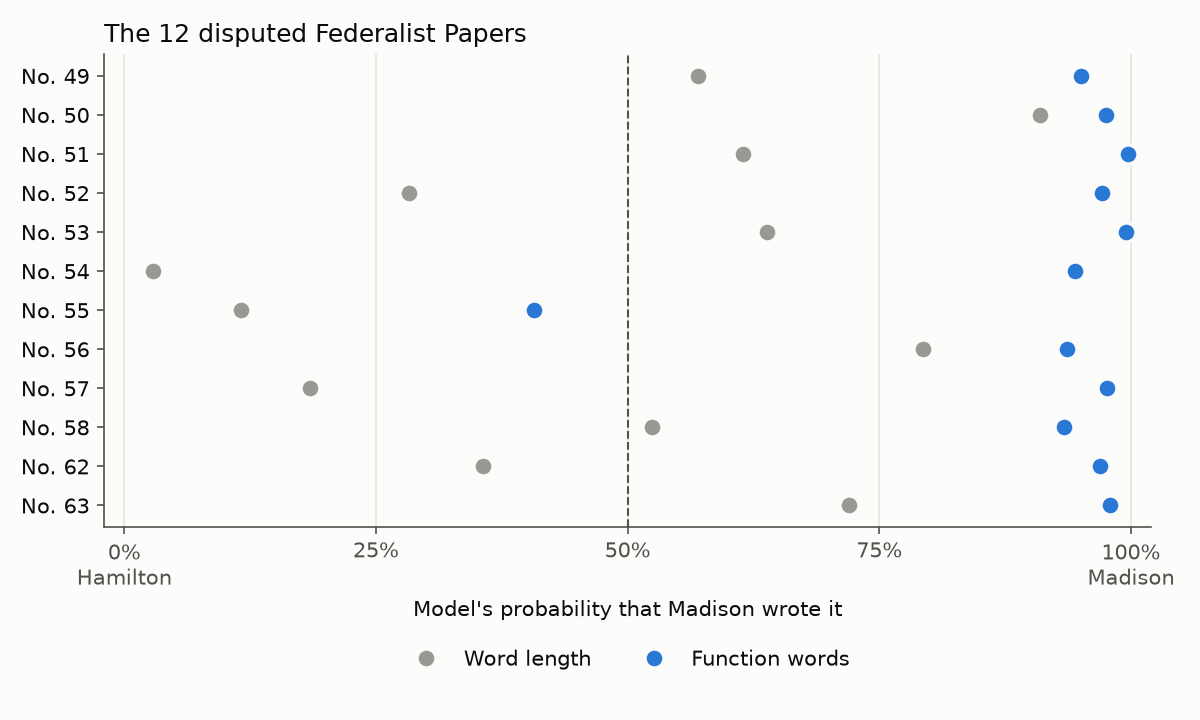
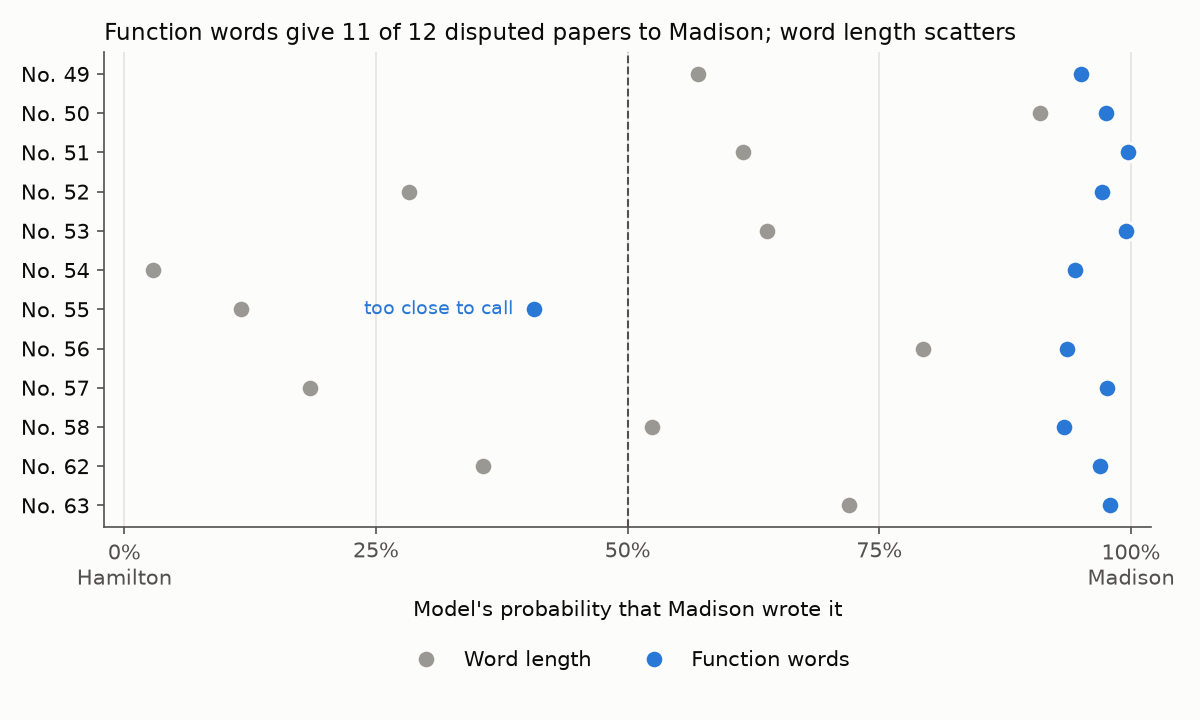
Organize the project as two stages: choose the signal, then decide the dispute
README, METHODS and pipeline comments follow the same two stages.
Federalist chart gets a takeaway title and labels No. 55.

diff --git a/wld/analysis.py b/wld/analysis.py
@@ -117,11 +117,16 @@ def fig_federalist(disputed: pd.DataFrame, path):
         ax.plot(disputed[col] * 100, y, "o", ms=9, color=FEATURE_COLORS[name],
                 mec=SURFACE, mew=1.5, label=name)
     ax.axvline(50, color=INK_2, lw=1, ls="--")
+    close = disputed.p_madison_function_words.sub(0.5).abs().idxmin()
+    ax.annotate("too close to call", (disputed.p_madison_function_words[close] * 100, y[close]),
+                xytext=(-10, 0), textcoords="offset points", va="center", ha="right", fontsize=9,
+                color=FEATURE_COLORS[FUNCTION_WORD.name])
     ax.set_yticks(y, disputed.paper, color=INK)
     ax.set_xlim(-2, 102)
     ax.set_xticks([0, 25, 50, 75, 100], ["0%\nHamilton", "25%", "50%", "75%", "100%\nMadison"])
     ax.set_xlabel("Model's probability that Madison wrote it", color=INK)
-    ax.set_title("The 12 disputed Federalist Papers", color=INK, loc="left")
+    ax.set_title("Function words give 11 of 12 disputed papers to Madison; word length scatters",
+                 color=INK, loc="left", fontsize=11)
     ax.legend(frameon=False, labelcolor=INK, loc="upper center", ncol=2,
               bbox_to_anchor=(0.5, -0.22))
     _save(fig, path)
@@ -152,7 +157,7 @@ def main(root: Path = ROOT) -> None:
     figs.mkdir(exist_ok=True)
     books = load_books()
 
-    # 1. Novels: which signal identifies the author, and how much text it needs.
+    # Stage 1 (novels): which signal identifies the author, and how much text it needs.
     runs = [leave_one_book_out(books, c, fs)
             for fs in (FUNCTION_WORD, WORD_LENGTH) for c in CHUNK_SIZES]
     curve = pd.DataFrame([{k: r[k] for k in ("features", "chunk_size", "balanced_accuracy",
@@ -162,14 +167,14 @@ def main(root: Path = ROOT) -> None:
                   if r["chunk_size"] == REF_CHUNK for p in r["per_book"]]).round(4).to_csv(
         res / f"per_book_{REF_CHUNK}_words.csv", index=False)
 
-    # 2. Novels: word length is "significant" but tiny.
+    # Stage 1 (novels): word length is "significant" but tiny.
     pd.DataFrame([{"title": b.title, "author": b.author, "translator": b.translator,
                    "words": len(b.words), "mean_word_length": round(b.lengths.mean(), 3)}
                   for b in books]).to_csv(res / "books.csv", index=False)
     authors, table = author_table(books)
     tests(books).to_csv(res / "chi_square_tests.csv", index=False)
 
-    # 3. Federalist Papers: validate on known papers, then decide the disputed ones.
+    # Stage 2 (Federalist Papers): validate on known papers, then decide the disputed ones.
     papers = load_federalist()
     known = [p for p in papers if p.author in ("Hamilton", "Madison")]
     disputed = [p for p in papers if p.author == "Disputed"]

diff --git a/README.md b/README.md
@@ -3,61 +3,62 @@
 [![tests](https://github.com/4mnestic/word-length-distribution-goodness-of-fit/actions/workflows/ci.yml/badge.svg)](https://github.com/4mnestic/word-length-distribution-goodness-of-fit/actions/workflows/ci.yml)
 
 In 1887, T. C. Mendenhall claimed every writer has a telltale pattern of word lengths. I tested
-that on 2.4 million words from Austen, Dickens and Tolstoy, found a signal that works far
-better (function words), and used it on the disputed Federalist Papers.
+that claim in two stages, the way a model is built and then put to use:
 
-## Results
+1. **Develop** on 12 novels by Austen, Dickens and Tolstoy, where the authors are known and
+   there is plenty of text: which signal identifies an author, and how much text it needs.
+2. **Decide** a real dispute: who wrote the 12 Federalist Papers claimed by both Hamilton and
+   Madison.
 
-- **Word length doesn't identify authors.** I cut each book into passages and trained a
-  logistic regression (scikit-learn) to name the author from its word lengths. To stop it
-  from cheating by recognizing a book's characters, it was always tested on a book it never
-  saw: train on 11, test on the 12th, rotate. It was right 50% of the time on 1,000-word
-  passages, against 33% for a random guess. A chi-square test (SciPy) calls the authors'
-  differences significant, but the effect size (Cramér's V = 0.04) is no bigger than the
-  gap between one author's own books. With 2.4 million words almost anything is
-  "significant"; size is what matters.
-- **Function words identify authors.** I swapped in how often each passage uses 70 common words (*the,
-  upon, would, whilst*…). They appear whatever the topic, so they reflect habit rather than
-  plot. With the same model and the same test, accuracy reaches 90% at 1,000 words and 99%
-  at 5,000, and all 12 novels are attributed correctly. Keeping the model fixed means the
-  gain comes from the signal, not a fancier algorithm.
-- **The Federalist Papers.** Before trusting the model on the disputed papers, I checked it
-  on the 65 known ones, holding out one at a time. Hamilton wrote 51 of them, so always
-  guessing "Hamilton" would score 78%; I weighted the authors equally and scored with
-  balanced accuracy to rule that out. It got 64 right, missing only the shortest paper by
-  52% to 48%. On the disputed papers, 11 come out at least 93% Madison, matching the
-  historical consensus. No. 55 comes out 41%, so I report it as too close to call rather
-  than force a verdict.
+**Result:** word length fails. Function words (*the, upon, would, whilst*…) work, and they
+attribute 11 of the 12 disputed papers to Madison, matching the historical consensus.
+
+## Stage 1: choose the signal (novels)
+
+I cut each book into passages and trained a logistic regression (scikit-learn) to name the
+author, once using word lengths and once using how often each of 70 common "function words"
+appears. Function words show up whatever the topic, so they reflect habit rather than plot.
+The model was always tested on a book it never saw (train on 11, test on the 12th, rotate),
+so it couldn't cheat by recognizing a book's characters. It stayed the same in both runs, so
+any difference comes from the signal, not the algorithm.
 
 ![Accuracy by passage length](figures/accuracy_by_passage_length.png)
 
-## The Federalist Papers
+- **Word length barely beats a guess:** 50% on 1,000-word passages, against 33% by chance. It
+  mistakes *Great Expectations* for Austen and *War and Peace* for Dickens. A chi-square test
+  (SciPy) does call the authors' differences significant, but the effect size (Cramér's
+  V = 0.04) is no bigger than the gap between one author's own books. With 2.4 million words
+  almost anything is "significant"; size is what matters.
+- **Function words work:** 90% at 1,000 words and 99% at 5,000, and every book goes to the
+  right author. Below about 500 words, accuracy falls quickly, so short texts need caution.
 
-Hamilton and Madison both claimed authorship of 12 of these 1787–88 essays. Their word
-lengths are nearly identical, so word length can't separate them (grey). Function words can
-(blue):
+## Stage 2: decide the dispute (Federalist Papers)
+
+Before trusting the model, I checked it on the 65 papers of known authorship, holding out one
+at a time. Hamilton wrote 51 of them, so always guessing "Hamilton" would score 78%; I
+weighted the authors equally and scored with balanced accuracy to rule that out. Function
+words got 64 of 65 right, missing only the shortest paper, by 52% to 48%. Word length got
+48 of 65.
 
 ![Disputed Federalist Papers](figures/federalist_disputed.png)
 
-The clearest single clue is *upon*. Hamilton uses it 3.3 times per 1,000 words, Madison
-0.18 times, and the disputed papers 0.13 times.
-
-Full tables are in [METHODS.md](METHODS.md); code is in [`wld/`](wld/).
+11 of the 12 disputed papers come out at least 93% Madison. No. 55 comes out 41%, so I report
+it as too close to call rather than force a verdict. The clearest single clue is *upon*:
+Hamilton uses it 3.3 times per 1,000 words, Madison 0.18 times, and the disputed papers 0.13.
 
 ## Limitations
 
-- Only three novelists, and a two-way choice for the Federalist Papers. Choosing among many
-  authors is harder.
+- Three novelists and a two-way choice. Choosing among many candidate authors is harder.
 - The Tolstoy novels are English translations, so their "author" signal partly reflects the
   translators.
+- The probabilities aren't calibrated: read "93%" as "confident," not as exact odds.
 
 ## Reproduce
 
 One command rebuilds every table (pandas) and chart (matplotlib) from the raw texts,
 including the cleaning: editors' prefaces and chapter headings are stripped by code rather
-than by hand, so the results can be regenerated exactly.
-Dependencies are locked with uv, and automated tests (pytest) check the cleaning, features
-and statistics on every push via GitHub Actions.
+than by hand. Dependencies are locked with uv, and tests (pytest) run on every push via
+GitHub Actions. Full tables are in [METHODS.md](METHODS.md).
 
 ```bash
 uv sync

diff --git a/METHODS.md b/METHODS.md
@@ -4,31 +4,24 @@ Every number here comes from `uv run python -m wld.analysis` and is saved in
 [`results/`](results/). Accuracy means **balanced accuracy**, the average of per-author hit
 rates.
 
-## Data
+## Shared setup
 
-- **Novels:** four each by Austen, Dickens and Tolstoy, 2,401,328 words
-  ([`results/books.csv`](results/books.csv)). [`data/books.csv`](data/books.csv) records
-  where each narrative starts and ends. The code keeps only that span (dropping editors'
-  prefaces, contents pages and licenses) and removes illustration captions and chapter
-  headings.
-- **Federalist Papers:** 51 Hamilton, 14 Madison and 12 disputed papers, attributed as in
-  Mosteller & Wallace (the source file's own labels credit the disputed papers to Madison,
-  so they are ignored). Each paper keeps the text from its salutation to the "PUBLIUS"
-  signature.
 - **Words:** runs of letters, lowercased. A word's length is its letter count.
-
-## Features and model
-
-- **Word length:** share of words with 1, 2, …, 12 and 13+ letters.
-- **Function words:** rate of each of the 70 words Mosteller & Wallace used. They are
+- **Word-length features:** share of words with 1, 2, …, 12 and 13+ letters.
+- **Function-word features:** rate of each of the 70 words Mosteller & Wallace used. They are
   topic-neutral, so they track habit rather than subject.
-- **Model:** standardized logistic regression with classes weighted equally. The same
-  model is used for both feature sets, so the comparison is about the signal.
+- **Model:** standardized logistic regression with classes weighted equally (scikit-learn).
+  The same model is used for both feature sets.
 
-## Novels: accuracy on unseen books
+## Stage 1: choose the signal (novels)
 
-Each book is cut into passages of *n* words. A model trained on the other 11 books predicts
-the held-out book's passages, rotating through all 12
+**Data.** Four novels each by Austen, Dickens and Tolstoy, 2,401,328 words
+([`results/books.csv`](results/books.csv)). [`data/books.csv`](data/books.csv) records where
+each story starts and ends. The code keeps only that span (dropping editors' prefaces,
+contents pages and licenses) and removes illustration captions and chapter headings.
+
+**Accuracy on unseen books.** Each book is cut into passages of *n* words. A model trained on
+the other 11 books predicts the held-out book's passages, rotating through all 12
 ([`results/accuracy_by_passage_length.csv`](results/accuracy_by_passage_length.csv)).
 
 | Passage length (words) | 100 | 250 | 500 | 1,000 | 2,500 | 5,000 |
@@ -36,18 +29,14 @@ the held-out book's passages, rotating through all 12
 | Function words | 64% | 77% | 85% | 90% | 97% | 99% |
 | Word length | 42% | 44% | 47% | 50% | 57% | 62% |
 
-With function words, a majority vote over each book's passages names the right author for
-all 12 books at every length. With word length it misses 1–3. At 1,000 words those misses
-are *Great Expectations* (labeled Austen) and *War and Peace* (labeled Dickens)
+With function words, a majority vote over each book's passages names the right author for all
+12 books at every length. With word length it misses 1–3. At 1,000 words those misses are
+*Great Expectations* (labeled Austen) and *War and Peace* (labeled Dickens)
 ([`results/per_book_1000_words.csv`](results/per_book_1000_words.csv)).
 
-## Word length: significant, but tiny
-
-![Word-length distribution by author](figures/word_length_by_author.png)
-
-With millions of words, any difference passes a significance test, so the effect size
-(Cramér's V, where 0 means identical distributions) is what matters
-([`results/chi_square_tests.csv`](results/chi_square_tests.csv)):
+**Word length is significant, but tiny.** With millions of words any difference passes a
+significance test, so the effect size (Cramér's V, where 0 means identical distributions) is
+what matters ([`results/chi_square_tests.csv`](results/chi_square_tests.csv)):
 
 | Comparison | χ² (df) | p | Cramér's V |
 |---|---:|---:|---:|
@@ -58,7 +47,13 @@ With millions of words, any difference passes a significance test, so the effect
 
 The gap between authors is no bigger than the gap among Dickens's own novels.
 
-## Federalist Papers
+![Word-length distribution by author](figures/word_length_by_author.png)
+
+## Stage 2: decide the dispute (Federalist Papers)
+
+**Data.** 51 Hamilton, 14 Madison and 12 disputed papers, attributed as in Mosteller & Wallace.
+The source file's own labels credit the disputed papers to Madison, so they are ignored. Each
+paper keeps the text from its salutation to the "PUBLIUS" signature.
 
 **Validation**, holding out one known paper at a time
 ([`results/federalist_validation.csv`](results/federalist_validation.csv)):
@@ -78,8 +73,7 @@ P(Madison) = 0.52 ([`results/federalist_validation_papers.csv`](results/federali
 |---|---|---|---|---|---|---|---|---|---|---|---|---|
 | P(Madison), function words | .95 | .98 | 1.00 | .97 | 1.00 | .94 | **.41** | .94 | .98 | .93 | .97 | .98 |
 
-No. 55 was also among the weakest cases in Mosteller & Wallace's study. The probabilities
-are uncalibrated, so read them as relative confidence, not exact odds.
+No. 55 was also among the weakest cases in Mosteller & Wallace's study.
 
 **Marker words**, per 1,000 words
 ([`results/federalist_marker_words.csv`](results/federalist_marker_words.csv)):
